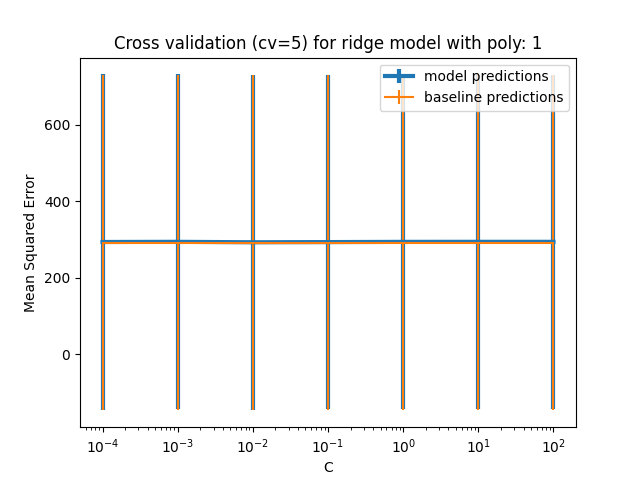
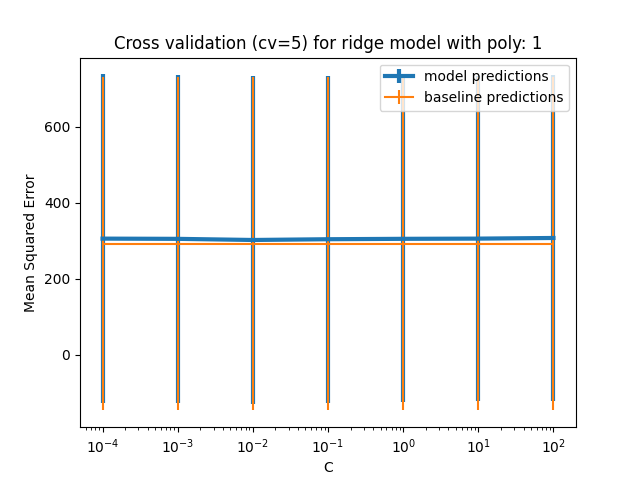
Updated graphs

diff --git a/linRegCrossVal.py b/linRegCrossVal.py
@@ -53,14 +53,14 @@ def import_data():
 
     # X is the list of feature vectors
     # y is the true result
-    X = np.column_stack((Xs[2], Xs[4], Xs[5],
+    """X = np.column_stack((Xs[2], Xs[4], Xs[5],
                         Xs[8], Xs[10], Xs[11]))
-    
+     """
     # X is the list of feature vectors
     # y is the true result
-    """ X = np.column_stack((Xs[0], Xs[1], Xs[2], Xs[3], Xs[4], Xs[5], Xs[6], Xs[7],
+    X = np.column_stack((Xs[0], Xs[1], Xs[2], Xs[3], Xs[4], Xs[5], Xs[6], Xs[7],
                         Xs[8], Xs[9], Xs[10], Xs[11], Xs[12], Xs[13], Xs[14],
-                        Xs[15], Xs[16], Xs[17], Xs[18], Xs[19], Xs[20])) """
+                        Xs[15], Xs[16], Xs[17], Xs[18], Xs[19], Xs[20]))
     
     # This picks only the wind related features (still no benefit compared to baseline)
     """ X = np.column_stack((Xs[3], Xs[4], Xs[5],
@@ -115,6 +115,8 @@ def Xval(X, y, model, independant_vars, polyCount):
         print("Avg: " + str(sum(scores)/len(scores)))
         mean_error.append(np.array(scores).mean())
         std_error.append(np.array(scores).std())
+        #print('intercept', selectedModel.intercept_, ' slope', selectedModel.coef_)
+
         
         # Run baseline model
         baseModel =  DummyRegressor(strategy="mean")
@@ -142,7 +144,7 @@ def Xval(X, y, model, independant_vars, polyCount):
 
 def XvalLasso(X, y, polyCount):
     print('\033[4m' + "Lasso mean_squared_error scores" + '\033[0m')
-    alphas = [5000, 500, 50, 5, 0.5, 0.05, 0.005]
+    alphas = [5000, 500, 50, 5, 0.5, 0.05, 0.005] #[0.005, 0.00005]
     Xval(X, y, "lasso", alphas, polyCount)
 
 def XvalRidge(X, y, polyCount):
